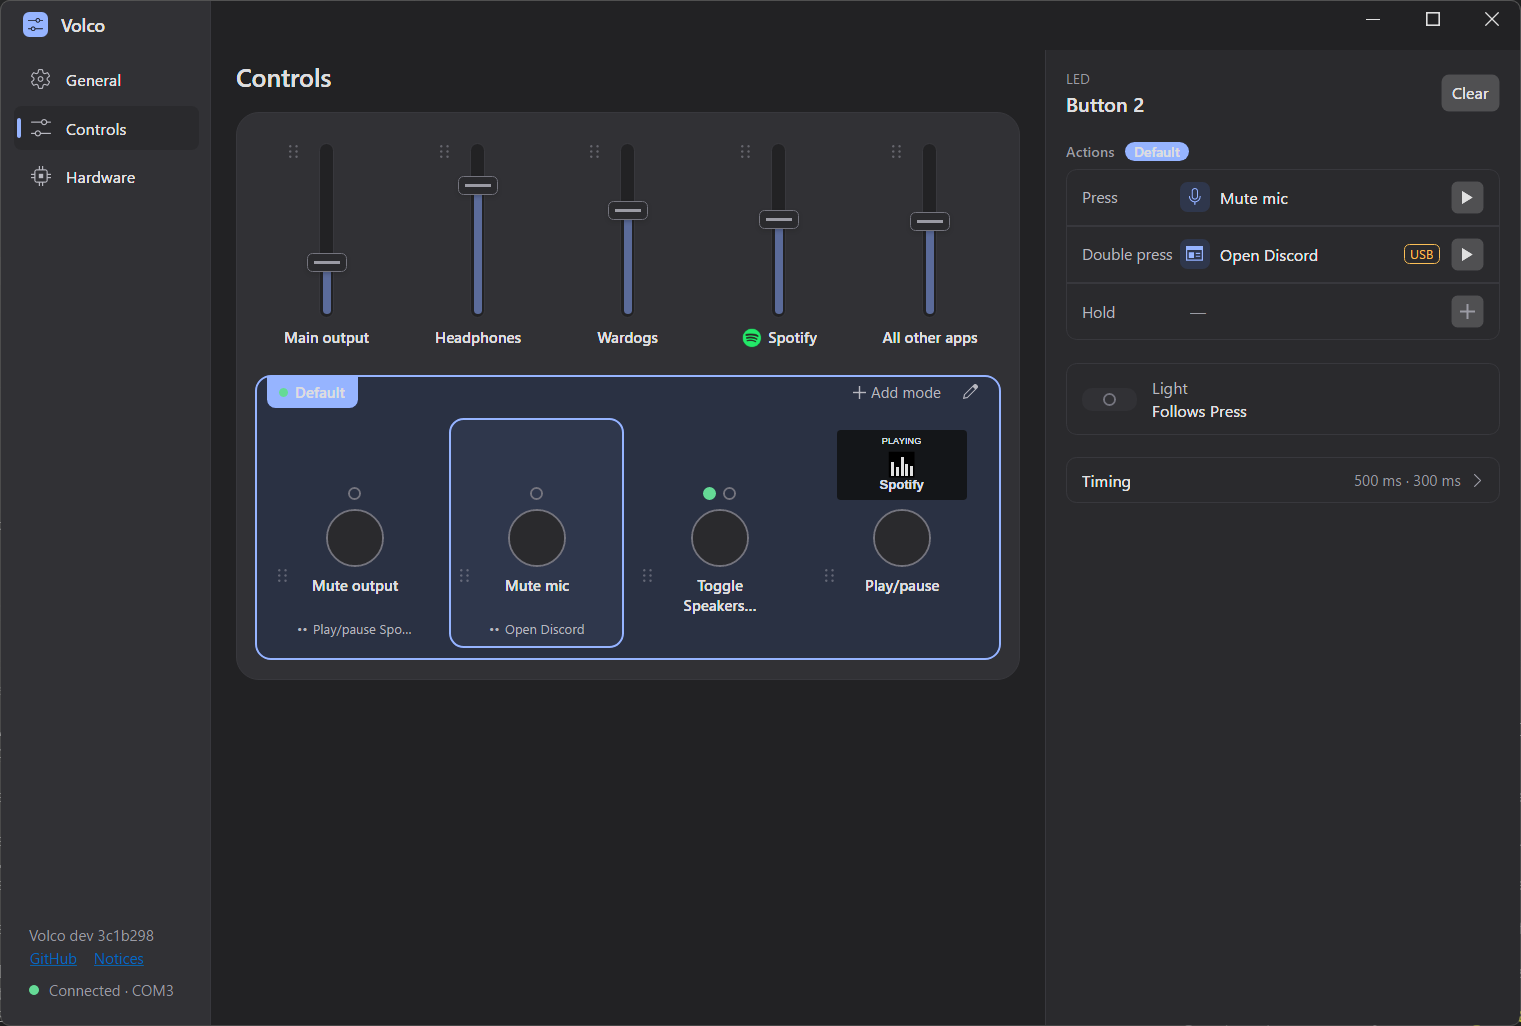
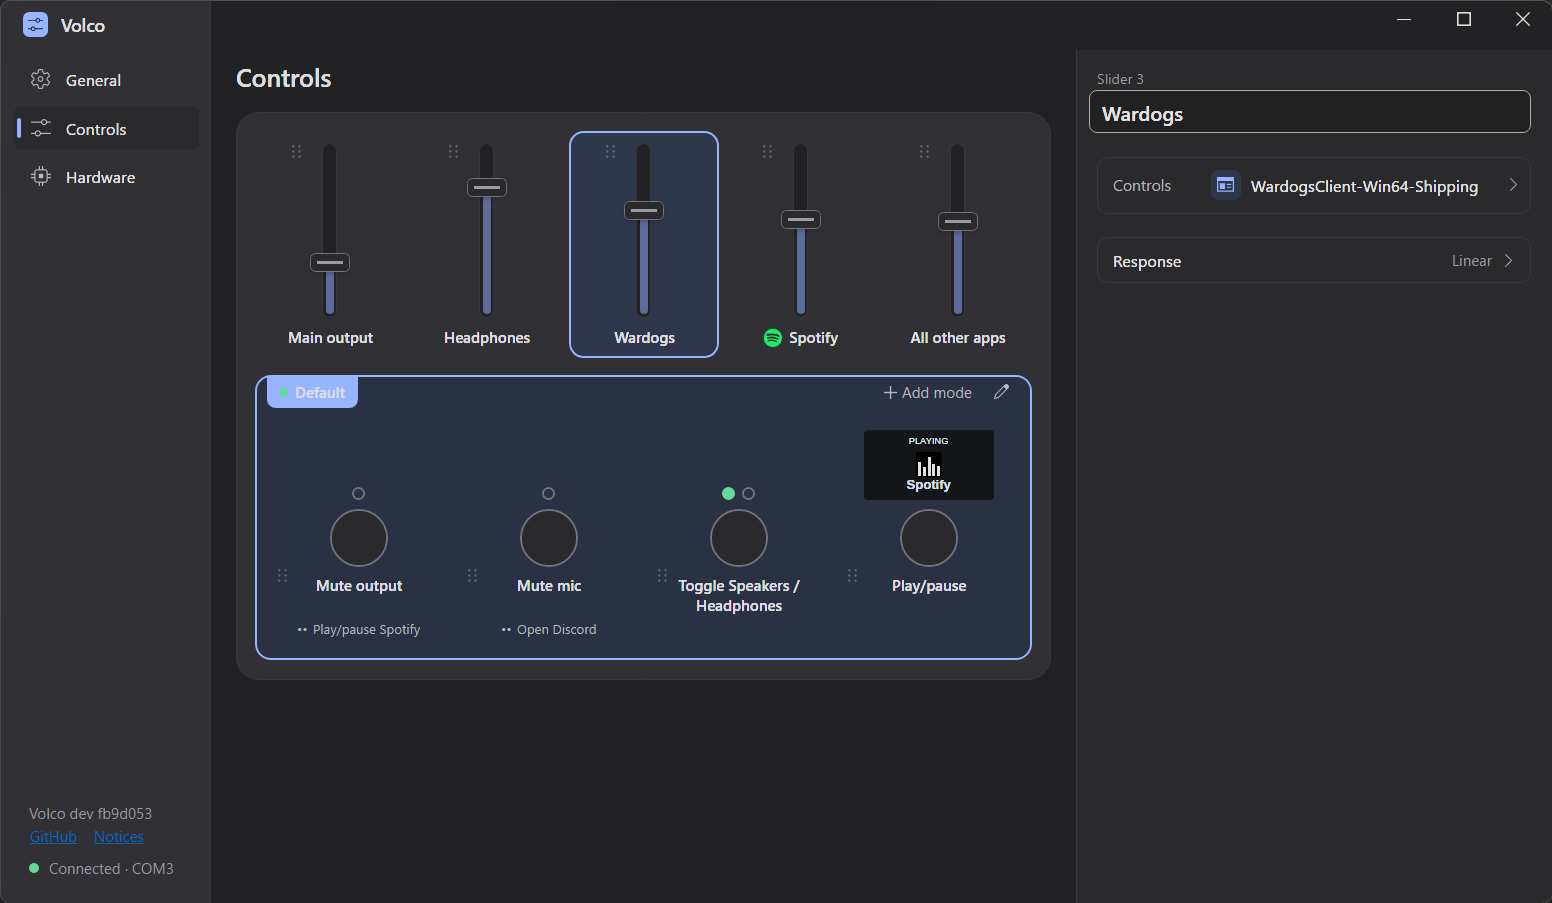
docs: the README shows the Controls page and its slider dialog only

diff --git a/README.md b/README.md
@@ -77,10 +77,8 @@ You don't need my board, though. Volco works with **any layout you wire up**: as
 
 <table>
 <tr>
-<td colspan="2" align="center"><a href="docs/images/app-controls.png"><img src="docs/images/app-controls.png" alt="Volco's Controls page: five sliders (Main output, Headphones, Wardogs, Spotify with its icon, All other apps) above four buttons in the Default mode, one with a screen showing Spotify playing; the inspector edits Button 2's press, double press and hold" width="70%"></a><br><sub><b>Controls:</b> your sliders and buttons as a drawing of the controller; pick one to set what it does</sub></td>
-</tr>
-<tr>
-<td colspan="2" align="center"><a href="docs/images/app-hardware.png"><img src="docs/images/app-hardware.png" alt="Volco's Hardware page: connected over USB, the firmware version, and the controller's slider and button pins" width="50%"></a><br><sub><b>Hardware:</b> the connection, the firmware, and the layout stored on the controller</sub></td>
+<td width="50%" align="center"><a href="docs/images/app-controls.png"><img src="docs/images/app-controls.png" alt="Volco's Controls page: five sliders (Main output, Headphones, Wardogs, Spotify with its icon, All other apps) above four buttons in the Default mode, one with a screen showing Spotify playing; the inspector shows the selected slider, Wardogs"></a><br><sub><b>Controls:</b> your sliders and buttons as a drawing of the controller; pick one to set what it does</sub></td>
+<td width="50%" align="center"><a href="docs/images/app-controls-dialog.png"><img src="docs/images/app-controls-dialog.png" alt="The dialog that picks what a slider controls: output and input devices, the apps playing now with their icons and live levels, and a saved app that is not running"></a><br><sub><b>Slider dialog:</b> devices, microphones and apps, with their icons and live levels</sub></td>
 </tr>
 </table>
 
